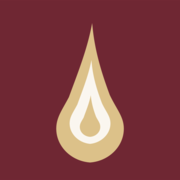
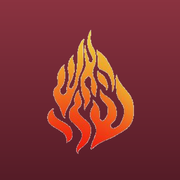
Flamme Aesh Sheli officielle + icônes

Changed region(s): [[0.25, 0.1389, 0.75, 0.9167], [0.0, 0.9444, 1.0, 1.0], [0.0, 0.0, 1.0, 0.0556]]

diff --git a/index.html b/index.html
@@ -90,6 +90,7 @@
     @keyframes spin{to{transform:rotate(360deg);}}
     .spin svg{animation:spin .8s linear infinite;}
 
+    .flame-img{object-fit:contain;display:block;-webkit-user-drag:none;user-select:none;}
     .watermark-text{text-align:center;font-family:'Fraunces',serif;font-style:italic;
       color:#1a2238;opacity:.18;font-size:22px;padding:26px 0 14px;letter-spacing:.04em;}
 
@@ -513,107 +514,37 @@
   }
 
   /* ====================== FLAMME (SVG ORIGINAL) ====================== */
-  /* Flamme multi-langues "Aesh Sheli" — pétales superposés */
-  const FLAME_PETAL = 'M0 -1 C 0.18 -0.66, 0.5 -0.4, 0.5 -0.15 C 0.5 0.03, 0.33 0.13, 0 0.14 C -0.33 0.13, -0.5 0.03, -0.5 -0.15 C -0.5 -0.4, -0.18 -0.66, 0 -1 Z';
-  const FLAME_BACK = [[140, 326, 0, 150, 180], [98, 318, -24, 80, 158], [118, 322, -11, 96, 240], [140, 324, -1, 104, 320], [164, 322, 12, 94, 250], [184, 318, 25, 78, 170]];
-  const FLAME_INNER = [[124, 324, -9, 60, 170], [142, 326, 2, 70, 248], [160, 324, 11, 58, 188]];
-  const FLAME_CORE = [143, 325, 2, 38, 150];
-  function tongueTransform(t) {
-    return 'translate(' + t[0] + ' ' + t[1] + ') rotate(' + t[2] + ') scale(' + t[3] + ' ' + t[4] + ')';
-  }
+  /* Flamme "Aesh Sheli" — image officielle de la synagogue (flame.png) */
   function Flame({
     size = 96,
     className = '',
     animated = false
   }) {
-    const [uid] = useState(() => 'fl' + Math.random().toString(36).slice(2, 8));
-    const gw = uid + 'w',
-      gi = uid + 'i';
-    return /*#__PURE__*/React.createElement("svg", {
+    return /*#__PURE__*/React.createElement("img", {
+      src: "./flame.png",
+      alt: "",
+      "aria-hidden": "true",
+      draggable: "false",
       width: size,
       height: size,
-      viewBox: "0 0 280 380",
-      className: cx(className, animated && 'flame-anim'),
-      "aria-hidden": "true"
-    }, /*#__PURE__*/React.createElement("defs", null, /*#__PURE__*/React.createElement("linearGradient", {
-      id: gw,
-      x1: "0.5",
-      y1: "1",
-      x2: "0.5",
-      y2: "0"
-    }, /*#__PURE__*/React.createElement("stop", {
-      offset: "0",
-      stopColor: "#b8320a"
-    }), /*#__PURE__*/React.createElement("stop", {
-      offset: "0.42",
-      stopColor: "#d97706"
-    }), /*#__PURE__*/React.createElement("stop", {
-      offset: "0.78",
-      stopColor: "#e8a93a"
-    }), /*#__PURE__*/React.createElement("stop", {
-      offset: "1",
-      stopColor: "#f6db88"
-    })), /*#__PURE__*/React.createElement("linearGradient", {
-      id: gi,
-      x1: "0.5",
-      y1: "1",
-      x2: "0.5",
-      y2: "0"
-    }, /*#__PURE__*/React.createElement("stop", {
-      offset: "0",
-      stopColor: "#d97706"
-    }), /*#__PURE__*/React.createElement("stop", {
-      offset: "0.62",
-      stopColor: "#efb74a"
-    }), /*#__PURE__*/React.createElement("stop", {
-      offset: "1",
-      stopColor: "#fbf1cf"
-    }))), FLAME_BACK.map((t, idx) => /*#__PURE__*/React.createElement("path", {
-      key: 'b' + idx,
-      d: FLAME_PETAL,
-      fill: 'url(#' + gw + ')',
-      transform: tongueTransform(t)
-    })), FLAME_INNER.map((t, idx) => /*#__PURE__*/React.createElement("path", {
-      key: 'n' + idx,
-      d: FLAME_PETAL,
-      fill: 'url(#' + gi + ')',
-      transform: tongueTransform(t)
-    })), /*#__PURE__*/React.createElement("path", {
-      d: FLAME_PETAL,
-      fill: "#fbf1cf",
-      fillOpacity: "0.9",
-      transform: tongueTransform(FLAME_CORE)
-    }));
+      className: cx('flame-img', className, animated && 'flame-anim')
+    });
   }
   function FlameWatermark() {
-    const [uid] = useState(() => 'fw' + Math.random().toString(36).slice(2, 8));
-    const g = uid + 'g';
     return /*#__PURE__*/React.createElement("div", {
       className: "flame-watermark",
       "aria-hidden": "true"
-    }, /*#__PURE__*/React.createElement("svg", {
-      viewBox: "0 0 280 380",
-      className: "breathe",
-      width: "100%",
-      height: "100%"
-    }, /*#__PURE__*/React.createElement("defs", null, /*#__PURE__*/React.createElement("linearGradient", {
-      id: g,
-      x1: "0.3",
-      y1: "1",
-      x2: "0.7",
-      y2: "0"
-    }, /*#__PURE__*/React.createElement("stop", {
-      offset: "0",
-      stopColor: "#7c2d3a"
-    }), /*#__PURE__*/React.createElement("stop", {
-      offset: "1",
-      stopColor: "#c9a35a"
-    }))), FLAME_BACK.map((t, idx) => /*#__PURE__*/React.createElement("path", {
-      key: 'w' + idx,
-      d: FLAME_PETAL,
-      fill: 'url(#' + g + ')',
-      transform: tongueTransform(t)
-    }))));
+    }, /*#__PURE__*/React.createElement("img", {
+      src: "./flame.png",
+      alt: "",
+      draggable: "false",
+      className: "flame-img breathe",
+      style: {
+        width: '100%',
+        height: 'auto',
+        display: 'block'
+      }
+    }));
   }
   function Loader({
     label,

diff --git a/sw.js b/sw.js
@@ -6,7 +6,8 @@ const CORE = [
   './manifest.json',
   './icon-192.png',
   './icon-512.png',
-  './apple-touch-icon.png'
+  './apple-touch-icon.png',
+  './flame.png'
 ];
 
 // Installation : pré-cache de la coquille de l'application
